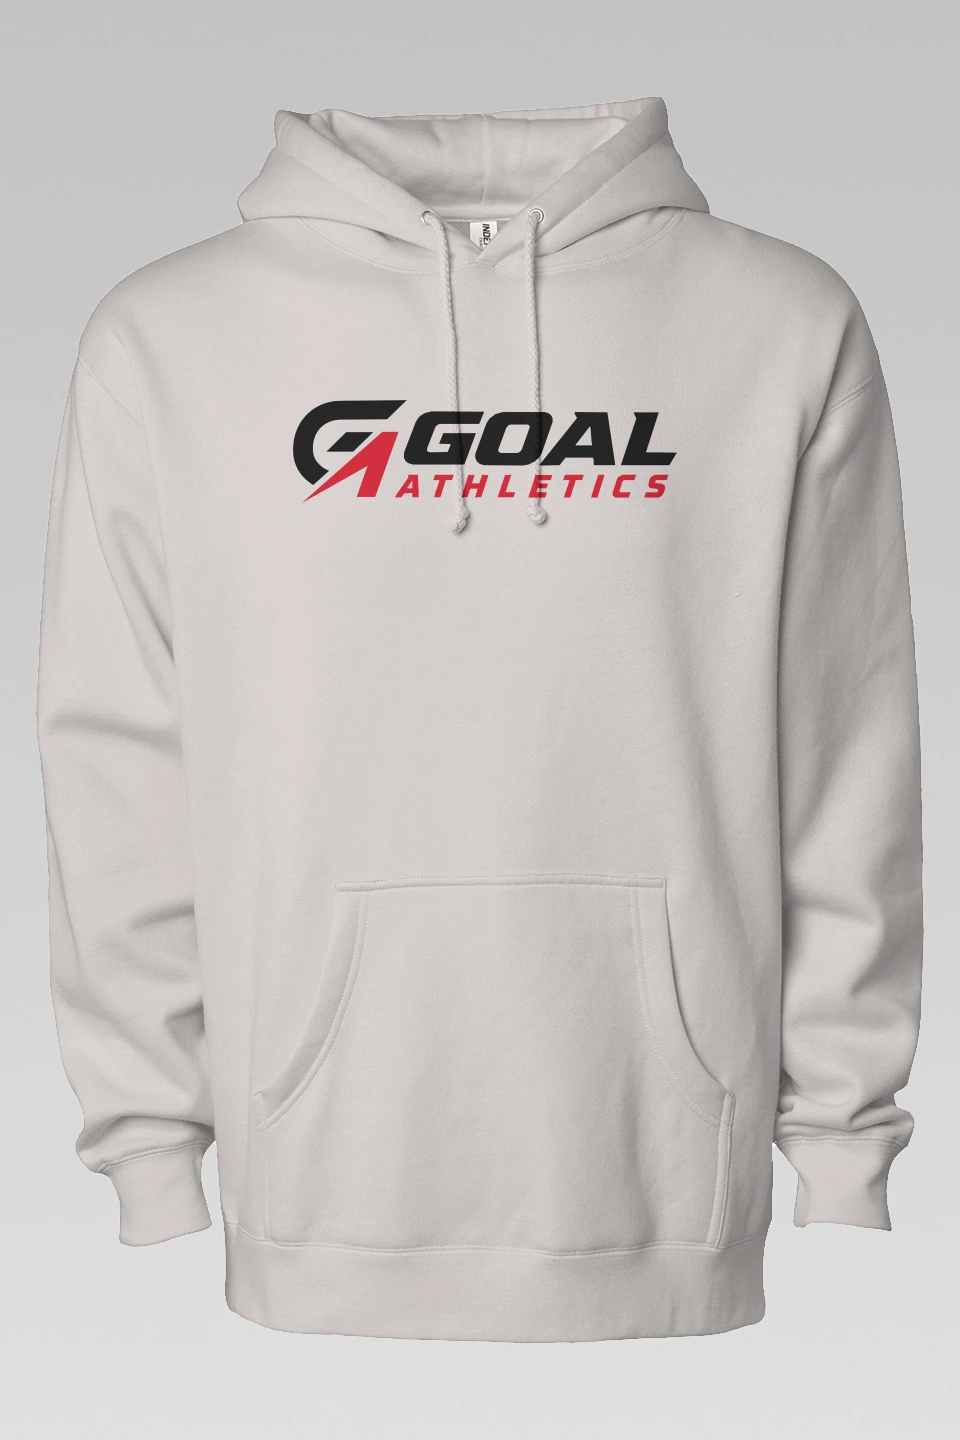
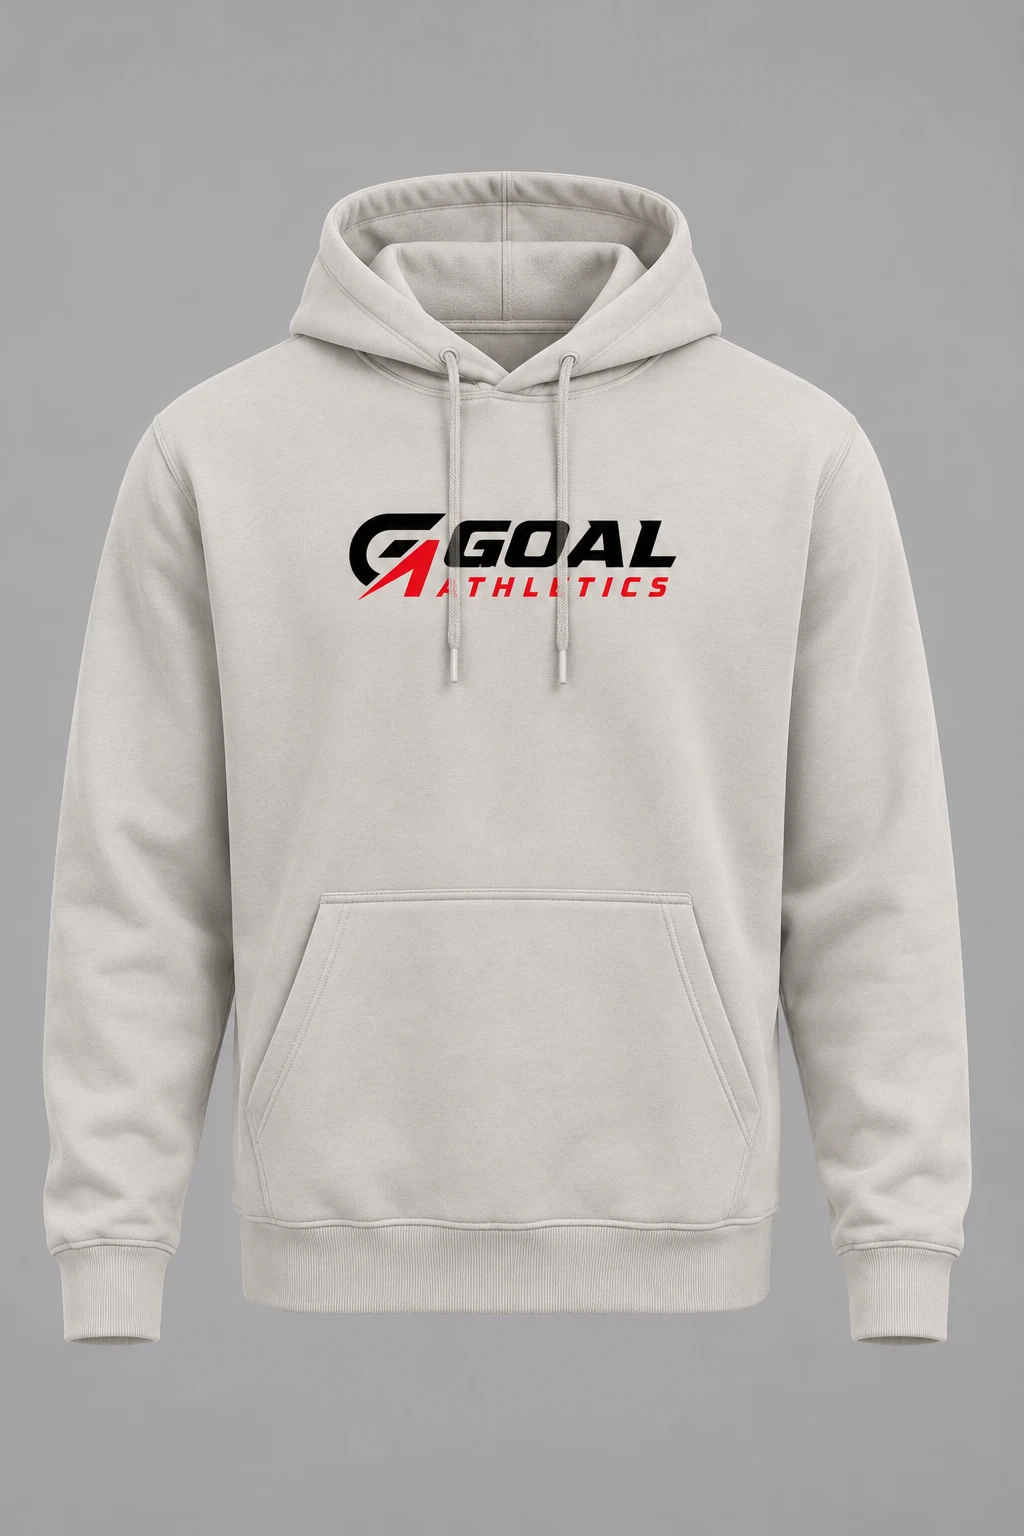
Lead the Bone Lockup Hoodie with the owner's product shot and model photos
Owner instruction 2026-10-22: upload these four now. The colour was read
from the fabric (warm, about 203/198/193, matching the Bone swatch; Grey
Heather is neutral).

- Four 1024 x 1536 photos, already 2:3 on clean backdrops, deployed byte
  for byte: product shot, model front, quarter left, quarter right.
- The product shot replaces the Apliiq render at the same path with cache
  revision bone-front-photo-20261022; the render moved to
  designs/59/retired-render. Grey Heather still shows the Apliiq render.

diff --git a/src/lib/products.ts b/src/lib/products.ts
@@ -3935,11 +3935,27 @@ export const products: Product[] = [
         supplierColor: "Bone",
         hex: "#CFCAC7",
         skuFragment: "BONE",
+        // The owner's product shot and model photos (2026-10-22).
         images: [
           {
             src: "/products/goal-lockup-hoodie-bone-catalog-product-front-20261022.webp",
             alt: "GOAL Athletics Lockup Hoodie in Bone, product front with the black and red GA monogram and GOAL ATHLETICS lockup across the chest",
-            caption: "Concept render. Not a photograph of a manufactured sample.",
+            caption: "AI-generated catalog visualization. Not a photograph of a manufactured sample.",
+          },
+          {
+            src: "/products/goal-lockup-hoodie-bone-catalog-model-front-20261022.webp",
+            alt: "Model facing forward in the Bone Lockup Hoodie with the black and red GA monogram and GOAL ATHLETICS lockup across the chest, black shorts and white sneakers",
+            caption: "AI-generated catalog visualization. Not a photograph of a manufactured sample.",
+          },
+          {
+            src: "/products/goal-lockup-hoodie-bone-catalog-model-quarter-left-20261022.webp",
+            alt: "Same model turned to the left in the Bone Lockup Hoodie, black and red GOAL ATHLETICS lockup across the chest",
+            caption: "AI-generated catalog visualization. Not a photograph of a manufactured sample.",
+          },
+          {
+            src: "/products/goal-lockup-hoodie-bone-catalog-model-quarter-right-20261022.webp",
+            alt: "Same model turned to the right in the Bone Lockup Hoodie, black and red GOAL ATHLETICS lockup across the chest",
+            caption: "AI-generated catalog visualization. Not a photograph of a manufactured sample.",
           },
         ],
       },

diff --git a/src/lib/product-image.ts b/src/lib/product-image.ts
@@ -35,6 +35,7 @@ export function catalogImageSrc(src: string): string {
     // Lockup Hoodie: the owner's product shots replaced the Apliiq renders.
     "/products/goal-lockup-hoodie-black-catalog-product-front-20261022.webp": "black-front-photo-20261022",
     "/products/goal-lockup-hoodie-navy-catalog-product-front-20261022.webp": "navy-front-photo-20261022",
+    "/products/goal-lockup-hoodie-bone-catalog-product-front-20261022.webp": "bone-front-photo-20261022",
   };
   const revision = replaced[url.pathname]
     ? replaced[url.pathname]

diff --git a/designs/59_lockup-hoodie-ind4000-2026-10-22/README.md b/designs/59_lockup-hoodie-ind4000-2026-10-22/README.md
@@ -113,7 +113,12 @@ Navy colourway (cream lockup).
   The renders moved to `retired-render/`.
 - The gate allowlist now covers the model views. Records:
   `docs/catalog/goal-lockup-hoodie-{black,navy}-photos-20261022.json`.
-- Grey Heather and Bone still show the Apliiq renders.
+- Bone followed: four 1024 x 1536 photos, already 2:3, deployed byte for
+  byte (product shot, model front, quarter left, quarter right). The colour
+  was read from the fabric (warm, about 203/198/193, against Grey Heather's
+  neutral grey). Cache revision `bone-front-photo-20261022`. Record:
+  `docs/catalog/goal-lockup-hoodie-bone-photos-20261022.json`.
+- Grey Heather still shows the Apliiq render.
 
 ## Original publish checklist
 
